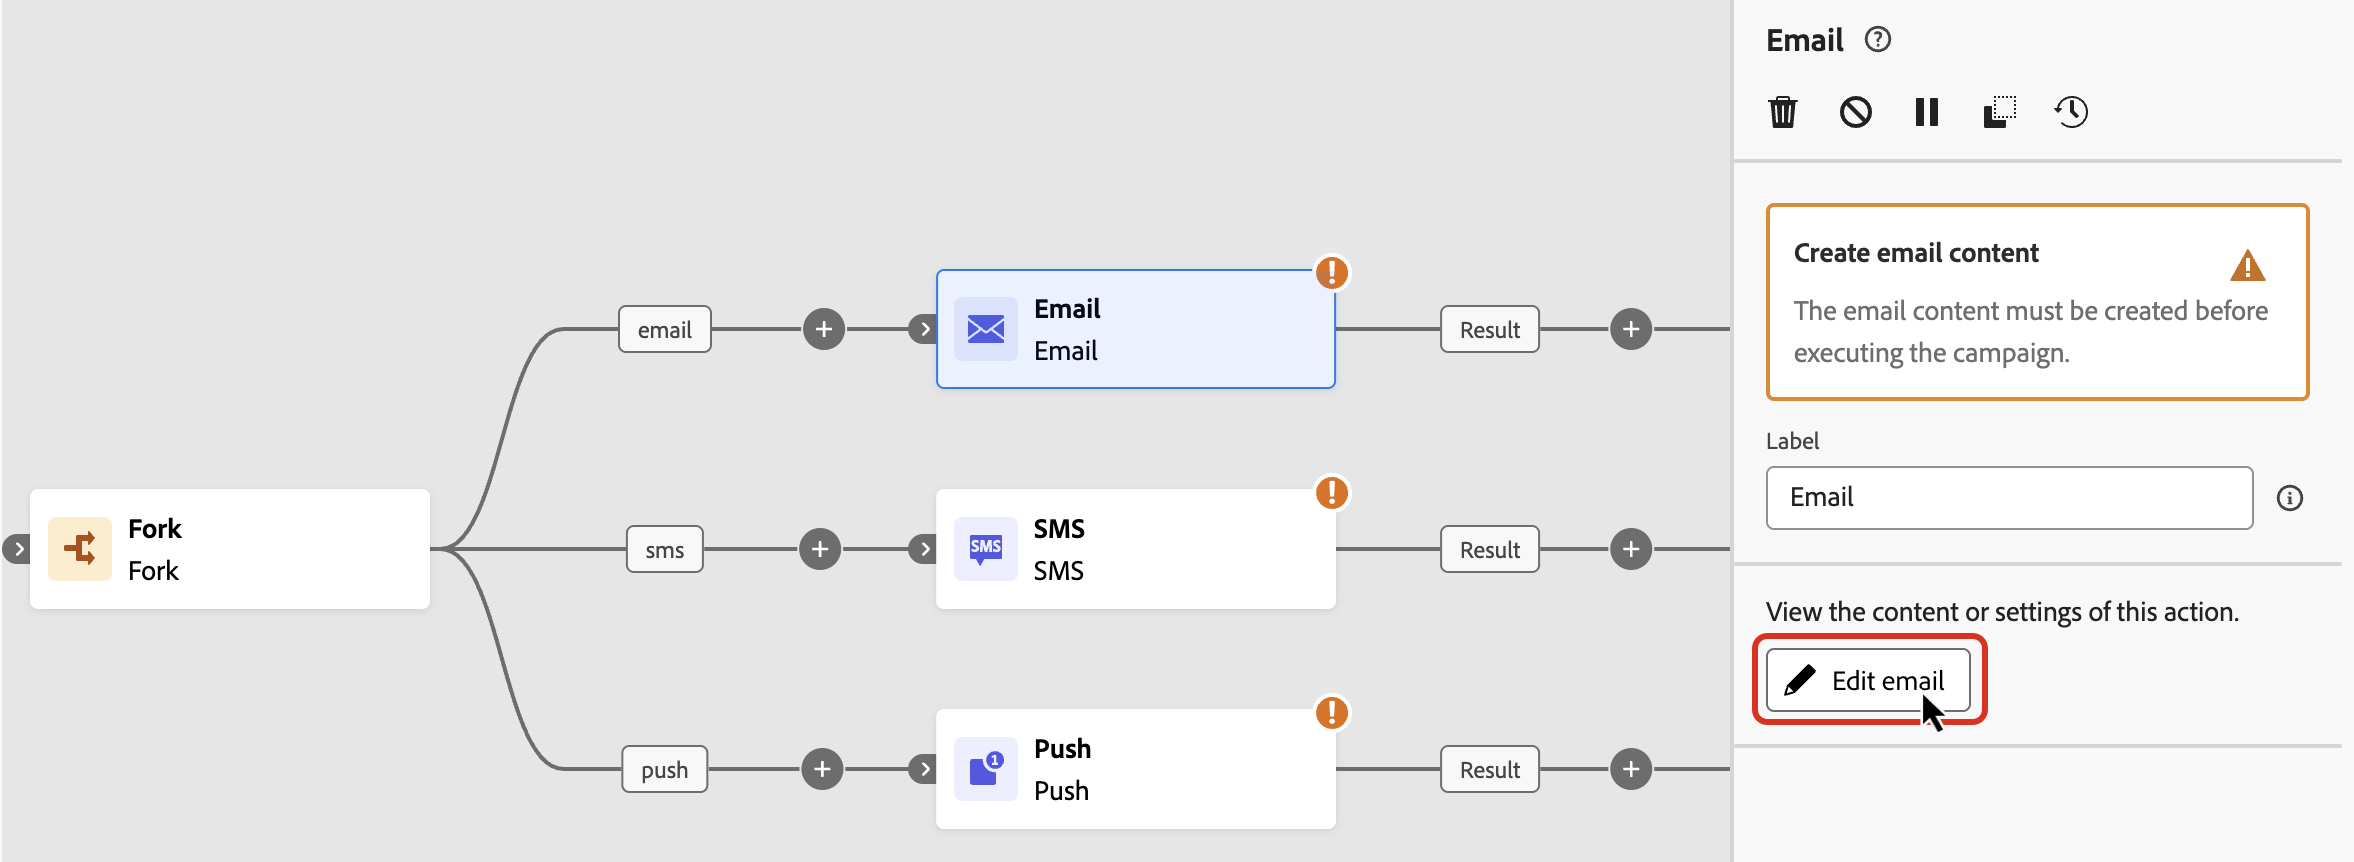
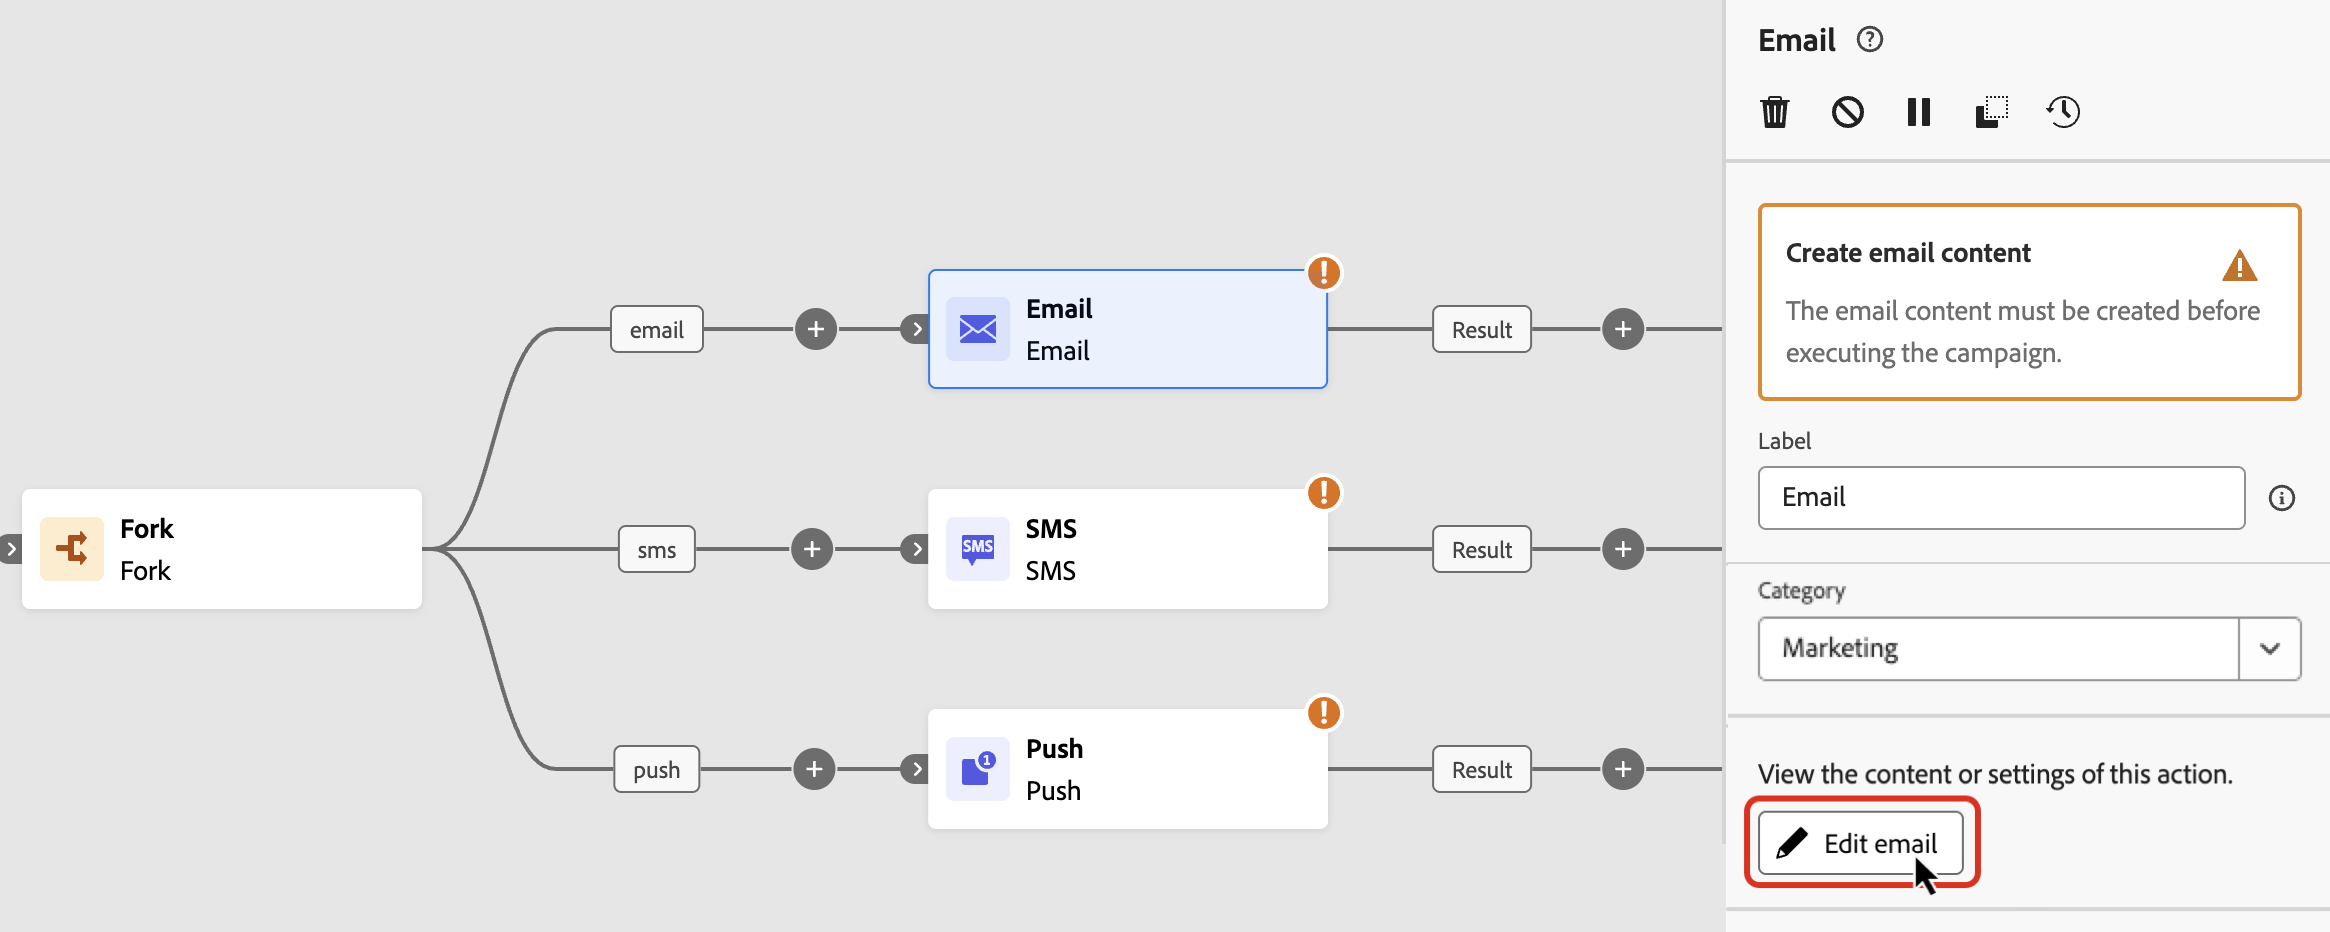
Docac 14233 transactional in oc (build check) (#2265)
* DOCAC-14233: Document transactional messages in Orchestrated campaigns

- Create campaign: rename type to 'Marketing and transactional', note Category in right rail
- Get started: add marketing + transactional intro, transactional no opt-in use cases
- Channel activities: Category field in right rail (Marketing/Transactional), update contextual help

Made-with: Cursor

* update

* update contextual help

* fix

* update rn

Changed region(s): [[0.0, 0.0905, 1.0, 0.9954], [0.7416, 0.0302, 0.8034, 0.0603]]

diff --git a/help/using/orchestrated/activities/channels.md b/help/using/orchestrated/activities/channels.md
@@ -49,7 +49,7 @@ UNUSED IDs in BJ
 >title="Direct mail activity"
 >abstract="The Direct mail activity facilitates direct mail sending within your Orchestrated campaign, for both one-time and recurring messages. It serves to automate the process of generating the extraction file required by direct mail providers. You can combine channel activities into the Orchestrated campaign canvas to create cross-channel campaigns that can trigger actions based on customer behavior and data."
 
-[!DNL Adobe Journey Optimizer] allows you to automate and execute marketing campaigns across channels - email, SMS, push notifications and direct mail. You can combine these channel activities into the campaign canvas to create cross-channel Orchestrated campaigns. These campaigns can trigger actions based on customer behavior and data.
+[!DNL Adobe Journey Optimizer] allows you to automate and execute campaigns across channels—email, SMS, push notifications, and direct mail—for both marketing and transactional messages. You can combine these channel activities into the campaign canvas to create cross-channel Orchestrated campaigns. These campaigns can trigger actions based on customer behavior and data.
 
 For example:
 
@@ -77,6 +77,8 @@ By using channel activities, you can create comprehensive and personalized campa
 1. Add a channel activity into the canvas. Available channel activities are **[!UICONTROL Email]**, **[!UICONTROL SMS]**, **[!UICONTROL Push]** and **[!UICONTROL Direct mail]**.
 
     ![image showing the canvas with available activities](../assets/channel-add.png)
+
+1. In the right rail, use the **[!UICONTROL Category]** field to choose **[!UICONTROL Marketing]** or **[!UICONTROL Transactional]** for this message. Transactional messages do not require opt-in and are suited for time-sensitive communications such as disruptions, emergencies, or cancellations.
 
 1. Select the activity and click **[!UICONTROL Edit email]**, **[!UICONTROL Edit SMS]**, **[!UICONTROL Edit Push]**, or **[!UICONTROL Edit direct mail]** depending on the chosen channel.
 

diff --git a/help/using/rn/release-notes.md b/help/using/rn/release-notes.md
@@ -201,6 +201,23 @@ Existing journeys using legacy channel activities will continue to function with
 </tbody>
 </table>
 
+<table>
+<thead>
+<tr>
+<th><strong>Transactional category in Orchestrated campaigns</strong><br/></th>
+</tr>
+</thead>
+<tbody>
+<tr>
+<td>
+<p>In Orchestrated campaigns, you can now set a channel activity to the <strong>Transactional</strong> category. This applies transactional channel configurations to that activity and is useful when business rules should not apply or when customers' opt-in is not required.</p>
+<p><img src="assets/do-not-localize/oc-transactional.gif"></p>
+<p>For more information, refer to the <a href="../orchestrated/activities/channels.md#add">detailed documentation</a>.</p>
+<p>This capability will be gradually rolled out to all regions over the next few days.</p>
+</td>
+</tr>
+</tbody>
+</table>
 
 ### Improvements {#march-26-improv}
 
@@ -275,23 +292,6 @@ The features and improvements below are planned for release later in March/early
 <p>You can now convert images into email content templates directly in Journey Optimizer. Use AI-powered analysis to automatically generate structured HTML templates from visual references, significantly reducing email design time.</p>
 <p>Previously released in Limited Availability, this capability is now available to all environments (General Availability). <a href="../content-management/image-to-html.md">Learn more</a></p>
 <p>Availability date: March 30, 2026</p>
-</td>
-</tr>
-</tbody>
-</table>
-
-<table>
-<thead>
-<tr>
-<th><strong>Transactional category in Orchestrated campaigns</strong><br/></th>
-</tr>
-</thead>
-<tbody>
-<tr>
-<td>
-<p>In Orchestrated campaigns, you can now set a channel activity to the <strong>Transactional</strong> category. This applies transactional channel configurations to that activity and is useful when business rules should not apply or when customers' opt-in is not required.</p>
-<p><img src="assets/do-not-localize/oc-transactional.gif"></p>
-<p>Availability date: March 31, 2026</p>
 </td>
 </tr>
 </tbody>

diff --git a/help/using/orchestrated/gs-orchestrated-campaigns.md b/help/using/orchestrated/gs-orchestrated-campaigns.md
@@ -15,7 +15,7 @@ version: Campaign Orchestration
 >title="campaigns_overview_orchestrated"
 >abstract="<b>Campaign orchestration</b><br/>Split, combine, enrich and manipulate relational datasets to define your audience<br/><br/> <b>Leverage multi-entity data</b><br/>Learn how Orchestrated campaigns can take advantage of relational datasets to enrich data for segmentation & personalization<br/><br/><b>Ad-hoc segmentation & exact counts</b><br/>Build your segment step by step with exact counts<br/><br/><b>Available channels</b><br/>Email, SMS, Push notifications, Direct mail"
 
-Campaign Orchestration in [!DNL Adobe Journey Optimizer] powers sophisticated, brand-initiated marketing campaigns across channels, helping you drive engagement, revenue, and customer loyalty at scale.
+Campaign Orchestration in [!DNL Adobe Journey Optimizer] powers sophisticated, brand-initiated campaigns across channels—both **marketing** and **transactional**. Marketing campaigns help you drive engagement, revenue, and customer loyalty at scale. Transactional messages do not require opt-in and are suited for time-sensitive communications such as disruptions, emergencies, or cancellations.
 
 >[!IMPORTANT]
 >

diff --git a/help/using/orchestrated/create-orchestrated-campaign.md b/help/using/orchestrated/create-orchestrated-campaign.md
@@ -22,7 +22,9 @@ To create an Orchestrated campaign, follow these steps:
 
 1. Browse to the **[!UICONTROL Campaigns]** menu and select the **[!UICONTROL Orchestration]** tab.
 
-1. Click the **[!UICONTROL Create campaign]** button and select the **[!UICONTROL Orchestration - Marketing]** campaign type.
+1. Click the **[!UICONTROL Create campaign]** button and select the **[!UICONTROL Orchestration - Marketing and transactional]** campaign type.
+
+    You will choose whether each message is marketing or transactional when you add a [channel activity](../orchestrated/activities/channels.md).
 
      ![](assets/create-modal.png)
 
